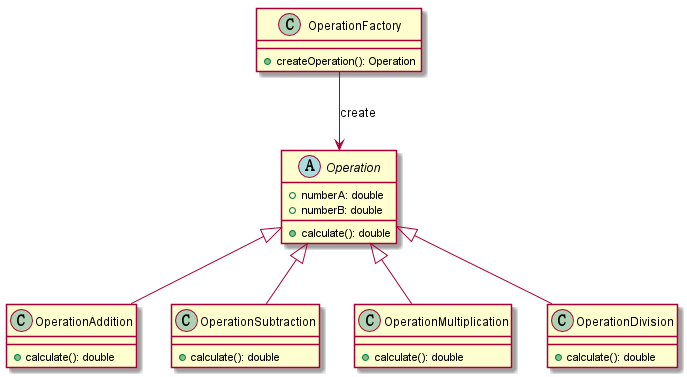
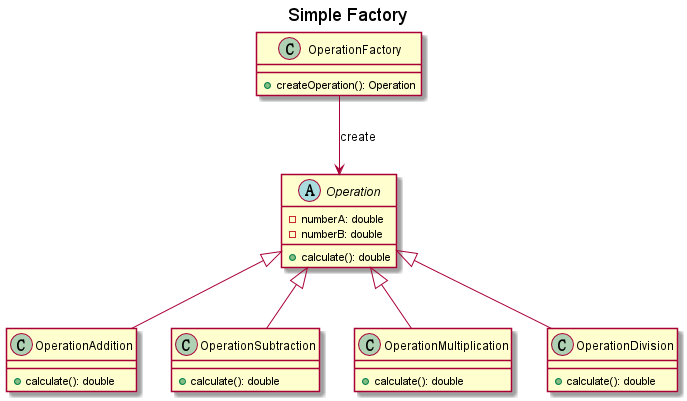
Add strategy uml

diff --git a/README.md b/README.md
@@ -12,10 +12,11 @@
 
 ##### 设计模式种类
 1. [简单工厂模式(Simple Factory)](https://github.com/ToryZhou/design-pattern/tree/master/src/main/java/com/job/designpattern/simplefactory)  
- ![Simple Factory](https://github.com/ToryZhou/design-pattern/raw/master/src/main/java/com/job/designpattern/simplefactory/OperationUml.png)
+![Simple Factory](https://github.com/ToryZhou/design-pattern/raw/master/src/main/java/com/job/designpattern/simplefactory/OperationUml.png)
 
 2. [策略模式(Strategy)](https://github.com/ToryZhou/design-pattern/tree/master/src/main/java/com/job/designpattern/strategy), 
-它定义了算法家族，分别封装起来，让它们之间可以相互替换，此模式让算法的变化，不会影响到使用算法的客户。
+它定义了算法家族，分别封装起来，让它们之间可以相互替换，此模式让算法的变化，不会影响到使用算法的客户。  
+![Simple Factory](https://github.com/ToryZhou/design-pattern/raw/master/src/main/java/com/job/designpattern/simplefactory/CashUml.png)
 
 3. [装饰模式(Decorator)](https://github.com/ToryZhou/design-pattern/tree/master/src/main/java/com/job/designpattern/decorator), 
 动态地给一个对象添加一些额外的职责，就增加功能来说，装饰模式比生成子类更为灵活。
